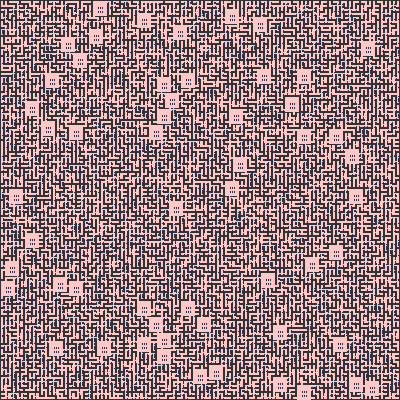
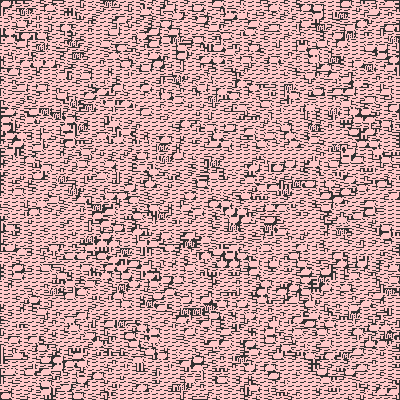
Prefabs are loaded from files

diff --git a/src/world/generate.rs b/src/world/generate.rs
@@ -8,21 +8,6 @@ use std::num::NonZeroU32;
 const ROOM_WIDTH: usize = 4;
 const ROOM_HEIGHT: usize = 4;
 
-#[allow(non_upper_case_globals)]
-const Fa: GenTile = GenTile::new(GenTileKind::Floor);
-#[allow(non_upper_case_globals)]
-const Wu: GenTile = GenTile::new(GenTileKind::Wall).change_if(GenTileKind::Floor, Direction::Up);
-#[allow(non_upper_case_globals)]
-const Wd: GenTile = GenTile::new(GenTileKind::Wall).change_if(GenTileKind::Floor, Direction::Down);
-#[allow(non_upper_case_globals)]
-const Wl: GenTile = GenTile::new(GenTileKind::Wall).change_if(GenTileKind::Floor, Direction::Left);
-#[allow(non_upper_case_globals)]
-const Wr: GenTile = GenTile::new(GenTileKind::Wall).change_if(GenTileKind::Floor, Direction::Right);
-#[allow(non_upper_case_globals)]
-const Wa: GenTile = GenTile::new(GenTileKind::Wall);
-#[allow(non_upper_case_globals)]
-const Ga: GenTile = GenTile::new(GenTileKind::Window);
-
 #[derive(Clone)]
 pub enum GenTileKind {
 	Floor,
@@ -45,23 +30,28 @@ impl GenTile {
 		}
 	}
 
-	pub const fn change_if(mut self, kind: GenTileKind, dir: Direction) -> Self {
+	pub fn change_if(&mut self, kind: GenTileKind, dir: Direction) {
 		self.change_if = Some((kind, dir));
-		self
 	}
 }
 
 pub struct WorldGenerator {
 	n_rooms_width: usize,
 	n_rooms_height: usize,
+	prefabs: Vec<RoomPrefab>,
 }
 
 impl WorldGenerator {
-	pub fn new(n_rooms_width: usize, n_rooms_height: usize) -> Self {
-		Self {
+	pub fn new(
+		n_rooms_width: usize,
+		n_rooms_height: usize,
+		prefabs_path: &str,
+	) -> Result<Self, &'static str> {
+		Ok(Self {
 			n_rooms_width,
 			n_rooms_height,
-		}
+			prefabs: load_prefabs_from_path(prefabs_path)?,
+		})
 	}
 
 	pub fn generate(&self, random: &mut Random, start: Vec2) -> (EntityId, World) {
@@ -101,70 +91,7 @@ impl WorldGenerator {
 			)
 			.unwrap() = Some(Room::new(0, 0, 0));
 
-		let room_prefabs = vec![
-			RoomPrefab {
-				chance: 5.0,
-				tiles: vec![
-					Wa, Wu, Wu, Wa, Wl, Fa, Fa, Wr, Wl, Fa, Fa, Wr, Wa, Wd, Wd, Wa,
-				],
-				n_rooms_width: 1,
-				n_rooms_height: 1,
-			},
-			RoomPrefab {
-				chance: 0.2,
-				tiles: vec![
-					Wa, Wu, Wu, Wa, Wa, Wu, Wu, Wa, Wa, Wu, Wu, Wa, Wa, Wu, Wu, Wa, Wl, Fa, Fa, Fa,
-					Fa, Fa, Fa, Fa, Fa, Fa, Fa, Fa, Fa, Fa, Fa, Wr, Wl, Fa, Fa, Fa, Fa, Fa, Fa, Fa,
-					Fa, Fa, Fa, Fa, Fa, Fa, Fa, Wr, Wa, Fa, Fa, Fa, Fa, Fa, Fa, Fa, Fa, Fa, Fa, Fa,
-					Fa, Fa, Fa, Wa, Wa, Fa, Fa, Fa, Fa, Fa, Fa, Fa, Fa, Fa, Fa, Fa, Fa, Fa, Fa, Wa,
-					Wl, Fa, Fa, Fa, Fa, Fa, Fa, Fa, Fa, Fa, Fa, Fa, Fa, Fa, Fa, Wr, Wl, Fa, Fa, Fa,
-					Fa, Fa, Fa, Fa, Fa, Fa, Fa, Fa, Fa, Fa, Fa, Wr, Wa, Fa, Fa, Fa, Fa, Fa, Ga, Fa,
-					Ga, Fa, Ga, Fa, Fa, Fa, Fa, Wa, Wa, Fa, Fa, Fa, Fa, Fa, Ga, Fa, Ga, Fa, Ga, Fa,
-					Fa, Fa, Fa, Wa, Wl, Fa, Fa, Fa, Fa, Fa, Fa, Fa, Fa, Fa, Fa, Fa, Fa, Fa, Fa, Wr,
-					Wl, Fa, Fa, Fa, Fa, Fa, Fa, Fa, Fa, Fa, Fa, Fa, Fa, Fa, Fa, Wr, Wa, Fa, Fa, Fa,
-					Fa, Fa, Ga, Fa, Ga, Fa, Ga, Fa, Fa, Fa, Fa, Wa, Wa, Fa, Fa, Fa, Fa, Fa, Ga, Fa,
-					Ga, Fa, Ga, Fa, Fa, Fa, Fa, Wa, Wl, Fa, Fa, Fa, Fa, Fa, Fa, Fa, Fa, Fa, Fa, Fa,
-					Fa, Fa, Fa, Wr, Wl, Fa, Fa, Fa, Fa, Fa, Fa, Fa, Fa, Fa, Fa, Fa, Fa, Fa, Fa, Wr,
-					Wa, Fa, Fa, Fa, Fa, Fa, Fa, Fa, Fa, Fa, Fa, Fa, Fa, Fa, Fa, Wa, Wa, Fa, Fa, Fa,
-					Fa, Fa, Fa, Fa, Fa, Fa, Fa, Fa, Fa, Fa, Fa, Wa, Wl, Fa, Fa, Fa, Fa, Fa, Fa, Fa,
-					Fa, Fa, Fa, Fa, Fa, Fa, Fa, Wr, Wl, Fa, Fa, Fa, Fa, Fa, Fa, Fa, Fa, Fa, Fa, Fa,
-					Fa, Fa, Fa, Wr, Wa, Wd, Wd, Wa, Wa, Wd, Wd, Wa, Wa, Wd, Wd, Wa, Wa, Wd, Wd, Wa,
-				],
-				n_rooms_width: 4,
-				n_rooms_height: 4,
-			},
-			RoomPrefab {
-				chance: 1.0,
-				tiles: vec![
-					Wa, Wu, Wu, Wa, Wa, Wu, Wu, Wa, Wl, Fa, Fa, Ga, Fa, Fa, Fa, Wr, Wl, Fa, Fa, Ga,
-					Fa, Fa, Fa, Wr, Wa, Fa, Fa, Ga, Fa, Fa, Fa, Wa, Wa, Fa, Fa, Fa, Fa, Fa, Fa, Wa,
-					Wl, Fa, Fa, Ga, Fa, Fa, Fa, Wr, Wl, Fa, Fa, Ga, Fa, Fa, Fa, Wr, Wa, Wd, Wd, Wa,
-					Wa, Wd, Wd, Wa,
-				],
-				n_rooms_width: 2,
-				n_rooms_height: 2,
-			},
-			RoomPrefab {
-				chance: 3.0,
-				tiles: vec![
-					Wa, Wu, Ga, Wa, Wl, Fa, Fa, Wr, Ga, Fa, Fa, Ga, Wa, Fa, Fa, Wa, Wa, Fa, Fa, Wa,
-					Wl, Fa, Fa, Wr, Ga, Fa, Fa, Ga, Wa, Wd, Ga, Wa,
-				],
-				n_rooms_width: 1,
-				n_rooms_height: 2,
-			},
-			RoomPrefab {
-				chance: 1.0,
-				tiles: vec![
-					Wa, Wu, Ga, Wa, Wl, Fa, Fa, Wr, Ga, Fa, Ga, Ga, Wa, Fa, Ga, Wa, Wa, Fa, Wr, Wr,
-					Wl, Fa, Wr, Wr, Ga, Fa, Fa, Ga, Wa, Wd, Ga, Wa,
-				],
-				n_rooms_width: 1,
-				n_rooms_height: 2,
-			},
-		];
-
-		let total_prefab_chance: f32 = room_prefabs.iter().map(|v| v.chance).sum();
+		let total_prefab_chance: f32 = self.prefabs.iter().map(|v| v.chance).sum();
 
 		let mut empty_spots = Vec::new();
 		'main_generator: while !loose_ends.is_empty() {
@@ -175,7 +102,7 @@ impl WorldGenerator {
 
 			let mut room_we_want = random.get_float() * total_prefab_chance;
 			let mut wanted_prefab_id = 0;
-			for (i, prefab) in room_prefabs.iter().enumerate() {
+			for (i, prefab) in self.prefabs.iter().enumerate() {
 				room_we_want -= prefab.chance;
 
 				if room_we_want <= 0.0 {
@@ -183,7 +110,7 @@ impl WorldGenerator {
 					break;
 				}
 			}
-			let mut wanted_prefab = &room_prefabs[wanted_prefab_id];
+			let mut wanted_prefab = &self.prefabs[wanted_prefab_id];
 
 			empty_spots.clear();
 			rooms.find_empty_spot(
@@ -223,7 +150,7 @@ impl WorldGenerator {
 					}
 
 					wanted_prefab_id = 0;
-					wanted_prefab = &room_prefabs[wanted_prefab_id];
+					wanted_prefab = &self.prefabs[wanted_prefab_id];
 					(loose_end.from_x + off_x, loose_end.from_y + off_y)
 				}
 				_ => {
@@ -303,7 +230,7 @@ impl WorldGenerator {
 			for (room_x, room) in chunk.iter().enumerate() {
 				let room = room.as_ref().expect("Didn't fill the entire dungeon!?");
 
-				let room_data = &room_prefabs[room.room_id];
+				let room_data = &self.prefabs[room.room_id];
 
 				for tile_y in 0..ROOM_HEIGHT {
 					for tile_x in 0..ROOM_WIDTH {
@@ -582,4 +509,120 @@ impl Rooms {
 
 		true
 	}
+}
+
+fn load_prefabs_from_path(path: &str) -> Result<Vec<RoomPrefab>, &'static str> {
+	fn validate_room_prefab(prefab: &RoomPrefab) -> Result<(), &'static str> {
+		if prefab.n_rooms_width == 0 {
+			return Err("Prefab width cannot be zero");
+		}
+		if prefab.n_rooms_height == 0 {
+			return Err("Prefab height cannot be zero");
+		}
+		if prefab.tiles.len()
+			!= prefab.n_rooms_width * prefab.n_rooms_height * ROOM_WIDTH * ROOM_HEIGHT
+		{
+			return Err("Prefab tiles do not match up with with and height of room(make sure that width and height are divisible by ROOM_WIDTH and ROOM_HEIGHT");
+		}
+
+		Ok(())
+	}
+
+	let file_contents = std::fs::read_to_string(path).map_err(|_| "Couldn't load file")?;
+
+	let mut prefabs = Vec::new();
+	let mut current_prefab: Option<RoomPrefab> = None;
+
+	for line in file_contents
+		.lines()
+		.map(|line| line.trim())
+		.filter(|line| !line.is_empty())
+	{
+		let mut parts = line.split_whitespace();
+		match parts.next().unwrap() {
+			"--" => {
+				if let Some(mut prefab) = current_prefab.take() {
+					prefab.n_rooms_height = prefab
+						.tiles
+						.len()
+						.checked_div(prefab.n_rooms_width * ROOM_WIDTH * ROOM_HEIGHT)
+						.unwrap_or(0);
+
+					validate_room_prefab(&prefab)?;
+					prefabs.push(prefab);
+				}
+
+				let _name = parts.next().ok_or("Expected name of area");
+				current_prefab = Some(RoomPrefab {
+					chance: 0.0,
+					tiles: Vec::new(),
+					n_rooms_width: 0,
+					n_rooms_height: 0,
+				});
+			}
+			"-" => {
+				let prefab = current_prefab
+					.as_mut()
+					.ok_or("Can't set a property without an active room")?;
+				match parts.next().ok_or("Expected property name")? {
+					"chance" => {
+						prefab.chance = parts
+							.next()
+							.ok_or("Expected float after 'chance'")?
+							.parse::<f32>()
+							.map_err(|_| "Float after 'chance' is incorrectly formatted")?;
+					}
+					_ => return Err("Unknown property"),
+				}
+			}
+			body => {
+				let prefab = current_prefab
+					.as_mut()
+					.ok_or("Can't set tiles without an active room")?;
+
+				let mut body_chars = body.chars();
+				let mut width = 0;
+				while let Some(c) = body_chars.next() {
+					let mut gen_tile = match c {
+						'#' => GenTile::new(GenTileKind::Wall),
+						'o' => GenTile::new(GenTileKind::Window),
+						'.' => GenTile::new(GenTileKind::Floor),
+						'D' => GenTile::new(GenTileKind::Wall),
+						_ => return Err("Invalid tile character"),
+					};
+
+					match body_chars.next().ok_or("Expected tile modifier")? {
+						modifier if modifier == c => (),
+						'>' => gen_tile.change_if(GenTileKind::Floor, Direction::Right),
+						'<' => gen_tile.change_if(GenTileKind::Floor, Direction::Left),
+						'^' => gen_tile.change_if(GenTileKind::Floor, Direction::Up),
+						'v' => gen_tile.change_if(GenTileKind::Floor, Direction::Down),
+						_ => return Err("Invalid tile modifier"),
+					}
+
+					prefab.tiles.push(gen_tile);
+					width += 1;
+				}
+
+				if prefab.n_rooms_width == 0 {
+					prefab.n_rooms_width = width / ROOM_WIDTH;
+				} else if prefab.n_rooms_width * ROOM_WIDTH != width {
+					return Err("Widths don't match");
+				}
+			}
+		}
+	}
+
+	if let Some(mut prefab) = current_prefab.take() {
+		prefab.n_rooms_height = prefab
+			.tiles
+			.len()
+			.checked_div(prefab.n_rooms_width * ROOM_WIDTH * ROOM_HEIGHT)
+			.unwrap_or(0);
+
+		validate_room_prefab(&prefab)?;
+		prefabs.push(prefab);
+	}
+
+	Ok(prefabs)
 }

diff --git a/src/main.rs b/src/main.rs
@@ -20,7 +20,9 @@ fn main() {
 
 	let mut random = random::Random::new();
 	let (player_id, mut world) =
-		world::generate::WorldGenerator::new(100, 100).generate(&mut random, Vec2::one() * 102.5);
+		world::generate::WorldGenerator::new(100, 100, "assets\\room_prefabs.txt")
+			.unwrap()
+			.generate(&mut random, Vec2::one() * 102.5);
 
 	world.to_image("output_maze.png");
 

diff --git a/src/world.rs b/src/world.rs
@@ -90,7 +90,7 @@ impl World {
 	}
 
 	pub fn simulate_physics(&mut self, time_step: f32) {
-		for (entity_id, entity) in self.entities.iter_mut() {
+		for entity in self.entities.values_mut() {
 			entity.pos.x += entity.vel.x * time_step;
 			if self.tiles.square_is_colliding(entity.pos, entity.size) {
 				entity.pos.x -= entity.vel.x * time_step;

diff --git a/src/random.rs b/src/random.rs
@@ -4,7 +4,7 @@ pub struct Random(u32);
 impl Random {
 	pub fn new() -> Self {
 		use std::time::{SystemTime, UNIX_EPOCH};
-		Random(
+		Self::with_seed(
 			(SystemTime::now()
 				.duration_since(UNIX_EPOCH)
 				.expect("Cannot generate starting seed with epoch")
